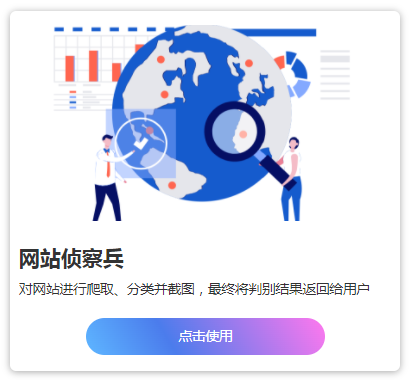
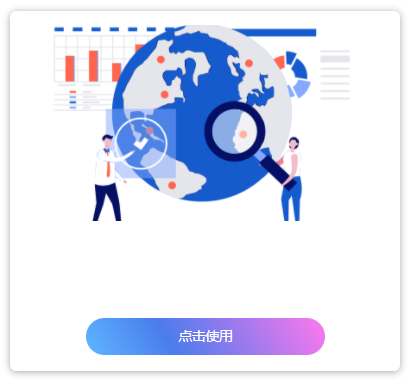
首页图片和文字分离中

Changed region(s): [[0.0293, 0.6368, 0.9073, 0.7816]]

diff --git a/C2Main/Forms/StartForm.cs b/C2Main/Forms/StartForm.cs
@@ -5,19 +5,52 @@ namespace C2.Forms
 {
     class StartForm : BaseForm
     {
+        private System.Windows.Forms.Label label2;
+        private System.Windows.Forms.Label label3;
+        private System.Windows.Forms.Label label4;
+        private System.Windows.Forms.Label label1;
+        private System.Windows.Forms.Label label6;
+        private System.Windows.Forms.Label label7;
+        private System.Windows.Forms.Label label8;
+        private System.Windows.Forms.Label label9;
+        private System.Windows.Forms.Label label10;
+        private System.Windows.Forms.Label label11;
+        private System.Windows.Forms.Label label12;
+        private System.Windows.Forms.Label label13;
+        private System.Windows.Forms.Label label14;
+        private System.Windows.Forms.Label label15;
+        private System.Windows.Forms.Label label16;
+        public System.Windows.Forms.Label label5;
         RecentFilesView recentFilesView1;
         public StartForm()
         {
             Text = Lang._("StartPage");
 
             InitializeComponent();
+            //test();
 
             AfterInitialize();
         }
-
+        
         void InitializeComponent()
         {
             this.recentFilesView1 = new C2.Controls.RecentFilesView();
+            this.label2 = new System.Windows.Forms.Label();
+            this.label3 = new System.Windows.Forms.Label();
+            this.label4 = new System.Windows.Forms.Label();
+            this.label1 = new System.Windows.Forms.Label();
+            this.label6 = new System.Windows.Forms.Label();
+            this.label7 = new System.Windows.Forms.Label();
+            this.label8 = new System.Windows.Forms.Label();
+            this.label9 = new System.Windows.Forms.Label();
+            this.label10 = new System.Windows.Forms.Label();
+            this.label11 = new System.Windows.Forms.Label();
+            this.label12 = new System.Windows.Forms.Label();
+            this.label13 = new System.Windows.Forms.Label();
+            this.label14 = new System.Windows.Forms.Label();
+            this.label15 = new System.Windows.Forms.Label();
+            this.label16 = new System.Windows.Forms.Label();
+            this.label5 = new System.Windows.Forms.Label();
             this.SuspendLayout();
             // 
             // recentFilesView1
@@ -26,22 +59,215 @@ namespace C2.Forms
             this.recentFilesView1.BackColor = System.Drawing.SystemColors.ControlLightLight;
             this.recentFilesView1.CellBackColor = System.Drawing.SystemColors.ControlLightLight;
             this.recentFilesView1.CellSpace = new System.Drawing.Size(20, 60);
-            this.recentFilesView1.Dimension = new System.Drawing.Size(4, 2);
             this.recentFilesView1.Dock = System.Windows.Forms.DockStyle.Fill;
             this.recentFilesView1.Location = new System.Drawing.Point(0, 0);
             this.recentFilesView1.Name = "recentFilesView1";
-            this.recentFilesView1.Size = new System.Drawing.Size(784, 462);
+            this.recentFilesView1.Size = new System.Drawing.Size(1767, 1054);
             this.recentFilesView1.TabIndex = 0;
+            // 
+            // label2
+            // 
+            this.label2.AutoSize = true;
+            this.label2.BackColor = System.Drawing.SystemColors.Window;
+            this.label2.Font = new System.Drawing.Font("微软雅黑", 15.75F, System.Drawing.FontStyle.Bold, System.Drawing.GraphicsUnit.Point, ((byte)(134)));
+            this.label2.Location = new System.Drawing.Point(24, 789);
+            this.label2.Name = "label2";
+            this.label2.Size = new System.Drawing.Size(117, 28);
+            this.label2.TabIndex = 2;
+            this.label2.Text = "网站侦察兵";
+            // 
+            // label3
+            // 
+            this.label3.AutoSize = true;
+            this.label3.BackColor = System.Drawing.SystemColors.Window;
+            this.label3.Font = new System.Drawing.Font("微软雅黑", 10.5F, System.Drawing.FontStyle.Regular, System.Drawing.GraphicsUnit.Point, ((byte)(134)));
+            this.label3.Location = new System.Drawing.Point(25, 826);
+            this.label3.Name = "label3";
+            this.label3.Size = new System.Drawing.Size(362, 20);
+            this.label3.TabIndex = 3;
+            this.label3.Text = "对网站进行爬取、分类并截图,最终将判别结果返回给用户";
+            // 
+            // label4
+            // 
+            this.label4.AutoSize = true;
+            this.label4.BackColor = System.Drawing.SystemColors.Window;
+            this.label4.Font = new System.Drawing.Font("微软雅黑", 15.75F, System.Drawing.FontStyle.Bold, System.Drawing.GraphicsUnit.Point, ((byte)(134)));
+            this.label4.Location = new System.Drawing.Point(24, 317);
+            this.label4.Name = "label4";
+            this.label4.Size = new System.Drawing.Size(96, 28);
+            this.label4.TabIndex = 4;
+            this.label4.Text = "分析笔记";
+            // 
+            // label1
+            // 
+            this.label1.AutoSize = true;
+            this.label1.BackColor = System.Drawing.SystemColors.Window;
+            this.label1.Font = new System.Drawing.Font("微软雅黑", 10.5F, System.Drawing.FontStyle.Regular, System.Drawing.GraphicsUnit.Point, ((byte)(134)));
+            this.label1.Location = new System.Drawing.Point(25, 356);
+            this.label1.Name = "label1";
+            this.label1.Size = new System.Drawing.Size(345, 20);
+            this.label1.TabIndex = 5;
+            this.label1.Text = "承载分析师的分析思路，落地分析过程，记录分析结果";
+            // 
+            // label6
+            // 
+            this.label6.AutoSize = true;
+            this.label6.BackColor = System.Drawing.SystemColors.Window;
+            this.label6.Font = new System.Drawing.Font("微软雅黑", 10.5F, System.Drawing.FontStyle.Regular, System.Drawing.GraphicsUnit.Point, ((byte)(134)));
+            this.label6.Location = new System.Drawing.Point(468, 356);
+            this.label6.Name = "label6";
+            this.label6.Size = new System.Drawing.Size(289, 20);
+            this.label6.TabIndex = 7;
+            this.label6.Text = "流程化的战法指导，供选择，可参考、可复用";
+            // 
+            // label7
+            // 
+            this.label7.AutoSize = true;
+            this.label7.BackColor = System.Drawing.SystemColors.Window;
+            this.label7.Font = new System.Drawing.Font("微软雅黑", 15.75F, System.Drawing.FontStyle.Bold, System.Drawing.GraphicsUnit.Point, ((byte)(134)));
+            this.label7.Location = new System.Drawing.Point(906, 317);
+            this.label7.Name = "label7";
+            this.label7.Size = new System.Drawing.Size(96, 28);
+            this.label7.TabIndex = 8;
+            this.label7.Text = "喝彩城堡";
+            // 
+            // label8
+            // 
+            this.label8.AutoSize = true;
+            this.label8.BackColor = System.Drawing.SystemColors.Window;
+            this.label8.Font = new System.Drawing.Font("微软雅黑", 10.5F, System.Drawing.FontStyle.Regular, System.Drawing.GraphicsUnit.Point, ((byte)(134)));
+            this.label8.Location = new System.Drawing.Point(907, 356);
+            this.label8.Name = "label8";
+            this.label8.Size = new System.Drawing.Size(177, 20);
+            this.label8.TabIndex = 9;
+            this.label8.Text = "模型和闭环配套的安全工具";
+            // 
+            // label9
+            // 
+            this.label9.AutoSize = true;
+            this.label9.BackColor = System.Drawing.SystemColors.Window;
+            this.label9.Font = new System.Drawing.Font("微软雅黑", 15.75F, System.Drawing.FontStyle.Bold, System.Drawing.GraphicsUnit.Point, ((byte)(134)));
+            this.label9.Location = new System.Drawing.Point(1346, 317);
+            this.label9.Name = "label9";
+            this.label9.Size = new System.Drawing.Size(75, 28);
+            this.label9.TabIndex = 10;
+            this.label9.Text = "实验楼";
+            // 
+            // label10
+            // 
+            this.label10.AutoSize = true;
+            this.label10.BackColor = System.Drawing.SystemColors.Window;
+            this.label10.Font = new System.Drawing.Font("微软雅黑", 10.5F, System.Drawing.FontStyle.Regular, System.Drawing.GraphicsUnit.Point, ((byte)(134)));
+            this.label10.Location = new System.Drawing.Point(1347, 356);
+            this.label10.Name = "label10";
+            this.label10.Size = new System.Drawing.Size(135, 20);
+            this.label10.TabIndex = 11;
+            this.label10.Text = "常用分析小工具集合";
+            // 
+            // label11
+            // 
+            this.label11.AutoSize = true;
+            this.label11.BackColor = System.Drawing.SystemColors.Window;
+            this.label11.Font = new System.Drawing.Font("微软雅黑", 15.75F, System.Drawing.FontStyle.Bold, System.Drawing.GraphicsUnit.Point, ((byte)(134)));
+            this.label11.Location = new System.Drawing.Point(467, 789);
+            this.label11.Name = "label11";
+            this.label11.Size = new System.Drawing.Size(120, 28);
+            this.label11.TabIndex = 12;
+            this.label11.Text = "APK监测站";
+            // 
+            // label12
+            // 
+            this.label12.AutoSize = true;
+            this.label12.BackColor = System.Drawing.SystemColors.Window;
+            this.label12.Font = new System.Drawing.Font("微软雅黑", 10.5F, System.Drawing.FontStyle.Regular, System.Drawing.GraphicsUnit.Point, ((byte)(134)));
+            this.label12.Location = new System.Drawing.Point(468, 826);
+            this.label12.Name = "label12";
+            this.label12.Size = new System.Drawing.Size(387, 20);
+            this.label12.TabIndex = 13;
+            this.label12.Text = "通过上传APK文件、创建项目、下载结果，使用APK检测服务";
+            // 
+            // label13
+            // 
+            this.label13.AutoSize = true;
+            this.label13.BackColor = System.Drawing.SystemColors.Window;
+            this.label13.Font = new System.Drawing.Font("微软雅黑", 15.75F, System.Drawing.FontStyle.Bold, System.Drawing.GraphicsUnit.Point, ((byte)(134)));
+            this.label13.Location = new System.Drawing.Point(906, 789);
+            this.label13.Name = "label13";
+            this.label13.Size = new System.Drawing.Size(75, 28);
+            this.label13.TabIndex = 14;
+            this.label13.Text = "知识库";
+            // 
+            // label14
+            // 
+            this.label14.AutoSize = true;
+            this.label14.BackColor = System.Drawing.SystemColors.Window;
+            this.label14.Font = new System.Drawing.Font("微软雅黑", 10.5F, System.Drawing.FontStyle.Regular, System.Drawing.GraphicsUnit.Point, ((byte)(134)));
+            this.label14.Location = new System.Drawing.Point(907, 826);
+            this.label14.Name = "label14";
+            this.label14.Size = new System.Drawing.Size(275, 20);
+            this.label14.TabIndex = 15;
+            this.label14.Text = "各业务方向关键词、线索查询、上传、下载";
+            // 
+            // label15
+            // 
+            this.label15.AutoSize = true;
+            this.label15.BackColor = System.Drawing.SystemColors.Window;
+            this.label15.Font = new System.Drawing.Font("微软雅黑", 15.75F, System.Drawing.FontStyle.Bold, System.Drawing.GraphicsUnit.Point, ((byte)(134)));
+            this.label15.Location = new System.Drawing.Point(1356, 789);
+            this.label15.Name = "label15";
+            this.label15.Size = new System.Drawing.Size(66, 28);
+            this.label15.TabIndex = 16;
+            this.label15.Text = "HIBU";
+            // 
+            // label16
+            // 
+            this.label16.AutoSize = true;
+            this.label16.BackColor = System.Drawing.SystemColors.Window;
+            this.label16.Font = new System.Drawing.Font("微软雅黑", 10.5F, System.Drawing.FontStyle.Regular, System.Drawing.GraphicsUnit.Point, ((byte)(134)));
+            this.label16.Location = new System.Drawing.Point(1357, 826);
+            this.label16.Name = "label16";
+            this.label16.Size = new System.Drawing.Size(109, 20);
+            this.label16.TabIndex = 17;
+            this.label16.Text = "提供23种AI能力";
+            // 
+            // label5
+            // 
+            this.label5.AutoSize = true;
+            this.label5.BackColor = System.Drawing.SystemColors.Window;
+            this.label5.Font = new System.Drawing.Font("微软雅黑", 15.75F, System.Drawing.FontStyle.Bold, System.Drawing.GraphicsUnit.Point, ((byte)(134)));
+            this.label5.Location = new System.Drawing.Point(467, 317);
+            this.label5.Name = "label5";
+            this.label5.Size = new System.Drawing.Size(96, 28);
+            this.label5.TabIndex = 6;
+            this.label5.Text = "战术手册";
             // 
             // StartForm
             // 
-            this.ClientSize = new System.Drawing.Size(784, 462);
+            this.ClientSize = new System.Drawing.Size(1767, 1054);
+            this.Controls.Add(this.label16);
+            this.Controls.Add(this.label15);
+            this.Controls.Add(this.label14);
+            this.Controls.Add(this.label13);
+            this.Controls.Add(this.label12);
+            this.Controls.Add(this.label11);
+            this.Controls.Add(this.label10);
+            this.Controls.Add(this.label9);
+            this.Controls.Add(this.label8);
+            this.Controls.Add(this.label7);
+            this.Controls.Add(this.label6);
+            this.Controls.Add(this.label5);
+            this.Controls.Add(this.label1);
+            this.Controls.Add(this.label4);
+            this.Controls.Add(this.label3);
+            this.Controls.Add(this.label2);
             this.Controls.Add(this.recentFilesView1);
             this.IconImage = global::C2.Properties.Resources.首页;
             this.Name = "StartForm";
             this.ResumeLayout(false);
+            this.PerformLayout();
 
         }
+
 
         protected override void OnCreateControl()
         {

diff --git a/C2Main/MainForm.cs b/C2Main/MainForm.cs
@@ -244,11 +244,16 @@ namespace C2
             leftPanel.Visible = true;
             leftButton.BackColor = LeftFocusColor;
         }
-
+        //聚沙成塔
         private void ModelMarketButton_Click(object sender, EventArgs e)
         {
-            if (!modelMarketControl.Visible || isLeftViewPanelMinimum )
+            if (!modelMarketControl.Visible || isLeftViewPanelMinimum)
+            {
                 ShowLeftPanel(modelMarketButton, modelMarketControl);
+                //StartForm startForm = new StartForm();
+                //startForm.label5.Location += 187 ;
+                //startForm.test2();
+            }
         }
 
         private void MindMapButton_Click(object sender, EventArgs e)
